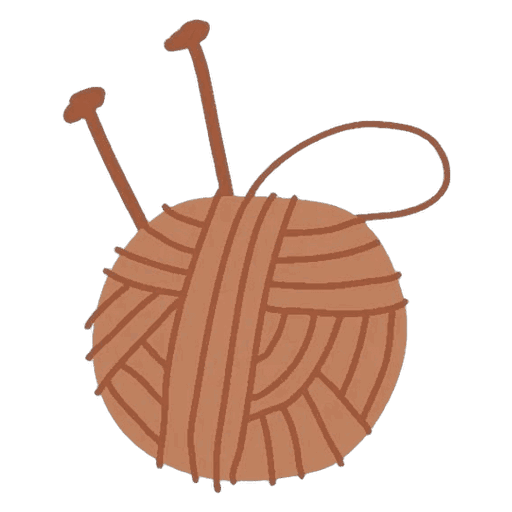
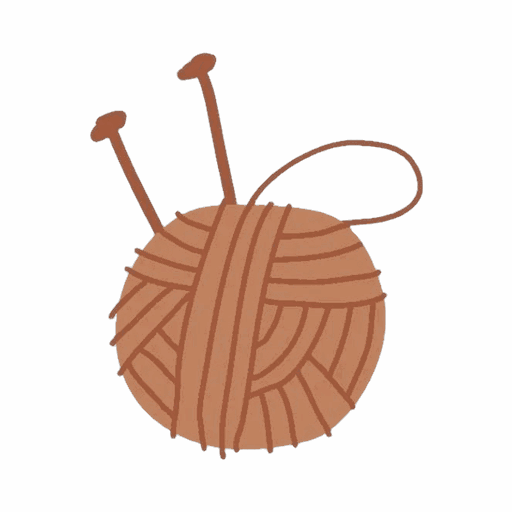
Agrega botón de volver arriba, pantalla de bienvenida de la PWA y corrige el ícono
- Botón "volver arriba": aparece al bajar, un anillo se llena de
  caramelo según el progreso de scroll y al llegar al final se pone
  negro sólido (igual que los botones del sitio). Visible en escritorio,
  tablet y celular.
- Ícono de la app: el de "cualquier propósito" (usado por iOS para
  el ícono de inicio) tenía transparencia, y iOS la rellena de negro
  por un bug conocido de Safari. Ahora tiene fondo blanco opaco, se ve
  limpio sin esa caja negra.
- Pantalla de bienvenida al abrir la PWA instalada: fondo blanco, logo
  más grande con una animación sutil y un mensaje. Solo aparece en modo
  standalone (instalada), no afecta la navegación normal en el navegador.

Changed region(s): [[0.125, 0.0312, 0.9062, 0.9688]]

diff --git a/index.html b/index.html
@@ -344,6 +344,31 @@ dialog::backdrop{background:rgba(20,12,8,.5);backdrop-filter:blur(6px);-webkit-b
 .pwa-acciones{grid-area:acciones;display:flex;align-items:center;justify-content:flex-end;gap:6px}
 .pwa-aviso .icono{width:34px;height:34px}
 
+/* Volver arriba, se llena a medida que se baja en la página */
+.arriba{position:fixed;right:calc(env(safe-area-inset-right,0px) + 20px);bottom:calc(env(safe-area-inset-bottom,0px) + 24px);z-index:70;width:52px;height:52px;padding:0;border:0;border-radius:50%;background:var(--bg);cursor:pointer;display:grid;place-items:center;box-shadow:0 10px 28px rgba(20,12,8,.16);opacity:0;transform:translateY(16px) scale(.9);pointer-events:none;transition:opacity .35s var(--ease),transform .35s var(--ease),background .4s var(--ease),box-shadow .4s var(--ease)}
+.arriba.visible{opacity:1;transform:translateY(0) scale(1);pointer-events:auto}
+.arriba svg:first-child{position:absolute;inset:0;width:100%;height:100%;transform:rotate(-90deg)}
+.arriba-pista{fill:none;stroke:var(--line);stroke-width:3}
+.arriba-progreso{fill:none;stroke:var(--accent);stroke-width:3;stroke-linecap:round;transition:stroke-dashoffset .1s linear,stroke .4s var(--ease)}
+.arriba-flecha{position:relative;width:18px;height:18px;color:var(--ink);transition:color .4s var(--ease)}
+.arriba.lleno{background:#000;box-shadow:0 14px 32px rgba(0,0,0,.3)}
+.arriba.lleno .arriba-pista{stroke:rgba(193,130,95,.3)}
+.arriba.lleno .arriba-progreso{stroke:#C1825F}
+.arriba.lleno .arriba-flecha{color:#C1825F}
+@media (max-width:640px){.arriba{width:46px;height:46px;right:calc(env(safe-area-inset-right,0px) + 16px);bottom:calc(env(safe-area-inset-bottom,0px) + 18px)}.arriba-flecha{width:16px;height:16px}}
+
+/* Pantalla de inicio al abrir la app instalada (PWA) */
+#splash{display:none}
+@media (display-mode:standalone){
+  #splash{display:flex;position:fixed;inset:0;z-index:9999;background:#FFFFFF;flex-direction:column;align-items:center;justify-content:center;gap:18px;padding:24px;text-align:center;transition:opacity .6s var(--ease);padding-top:calc(env(safe-area-inset-top,0px) + 24px)}
+  #splash.oculto{opacity:0;pointer-events:none}
+  .splash-logo{width:clamp(104px,28vw,168px);height:auto;animation:respira 2.6s ease-in-out infinite}
+  .splash-marca{font-family:var(--display);font-weight:300;font-size:clamp(1.7rem,6vw,2.4rem);letter-spacing:.3em;color:#7A4430;margin:0}
+  .splash-copy{font-family:var(--script);font-size:clamp(1.2rem,4.4vw,1.6rem);color:#A15A3C;margin:0;max-width:24ch}
+  @media (prefers-reduced-motion: reduce){.splash-logo{animation:none}}
+}
+@keyframes respira{0%,100%{transform:scale(1)}50%{transform:scale(1.06)}}
+
 /* Entrada de la portada */
 .intro .linea>span{animation:alzar 1.1s var(--ease) both;animation-delay:calc(.12s * var(--d,0) + .15s)}
 .intro .aparece{animation:fundir 1.2s var(--ease) both;animation-delay:calc(.12s * var(--d,0) + .2s)}
@@ -361,6 +386,11 @@ dialog::backdrop{background:rgba(20,12,8,.5);backdrop-filter:blur(6px);-webkit-b
 </style>
 </head>
 <body>
+<div id="splash" aria-hidden="true">
+  <img src="assets/logo-icono.png" class="splash-logo" alt="">
+  <p class="splash-marca">HILOS</p>
+  <p class="splash-copy">Un momento, estamos tejiendo esto para ti</p>
+</div>
 <svg width="0" height="0" style="position:absolute" aria-hidden="true" focusable="false">
   <defs>
     <pattern id="pt" width="10" height="9" patternUnits="userSpaceOnUse">
@@ -595,6 +625,14 @@ dialog::backdrop{background:rgba(20,12,8,.5);backdrop-filter:blur(6px);-webkit-b
   </div>
 </div>
 
+<button class="arriba" id="ir-arriba" aria-label="Volver arriba">
+  <svg viewBox="0 0 56 56" aria-hidden="true">
+    <circle class="arriba-pista" cx="28" cy="28" r="24"/>
+    <circle class="arriba-progreso" id="arriba-progreso" cx="28" cy="28" r="24"/>
+  </svg>
+  <svg class="arriba-flecha" viewBox="0 0 24 24" fill="none" stroke="currentColor" stroke-width="1.8" aria-hidden="true"><path d="M12 19V5M5 12l7-7 7 7"/></svg>
+</button>
+
 <script src="https://cdnjs.cloudflare.com/ajax/libs/three.js/r128/three.min.js"></script>
 <script>
 (function(){
@@ -605,6 +643,16 @@ const finoPuntero=matchMedia('(pointer: fine)').matches;
 const $=s=>document.querySelector(s), $$=s=>[...document.querySelectorAll(s)];
 const cop=n=>new Intl.NumberFormat('es-CO',{style:'currency',currency:'COP',maximumFractionDigits:0}).format(n);
 const wa=t=>`https://wa.me/${WHATSAPP}?text=${encodeURIComponent(t)}`;
+
+/* Pantalla de inicio al abrir como app instalada */
+if(matchMedia('(display-mode: standalone)').matches){
+  const splash=$('#splash');
+  const listo=new Promise(res=>{ if(document.readyState==='complete') res(); else addEventListener('load',res,{once:true}); });
+  Promise.all([listo,new Promise(res=>setTimeout(res,reduce?0:900))]).then(()=>{
+    splash.classList.add('oculto');
+    setTimeout(()=>splash.remove(),reduce?0:650);
+  });
+}
 
 /* ---------- Datos (contenido de ejemplo, editable) ---------- */
 const HILOS=[{n:'Tierra',c:'#A15A3C'},{n:'Caramelo',c:'#C1825F'},{n:'Arena',c:'#D9B99B'},{n:'Crudo',c:'#EDE2D6'},{n:'Café',c:'#5A3325'},{n:'Salvia',c:'#8E9677'}];
@@ -1228,6 +1276,28 @@ function crearOvillo(){
   if(/iphone|ipad|ipod/i.test(navigator.userAgent)){
     mostrar('Agrega <strong>Hilos</strong> a tu pantalla de inicio: toca compartir <span aria-hidden="true">⬆</span> y luego «Agregar a inicio».',false);
   }
+})();
+
+/* ---------- Volver arriba ---------- */
+(function(){
+  const btn=$('#ir-arriba'), progreso=$('#arriba-progreso'); if(!btn||!progreso) return;
+  const CIRC=2*Math.PI*24;
+  progreso.style.strokeDasharray=CIRC;
+  progreso.style.strokeDashoffset=CIRC;
+  let ticking=false;
+  function actualizar(){
+    const st=document.documentElement.scrollTop||document.body.scrollTop;
+    const alto=document.documentElement.scrollHeight-document.documentElement.clientHeight;
+    const p=alto>0?Math.min(1,Math.max(0,st/alto)):0;
+    progreso.style.strokeDashoffset=CIRC*(1-p);
+    btn.classList.toggle('visible',st>innerHeight*.6);
+    btn.classList.toggle('lleno',p>=.98);
+    ticking=false;
+  }
+  addEventListener('scroll',()=>{ if(!ticking){ ticking=true; requestAnimationFrame(actualizar); } },{passive:true});
+  addEventListener('resize',actualizar);
+  actualizar();
+  btn.addEventListener('click',()=>scrollTo({top:0,behavior:reduce?'auto':'smooth'}));
 })();
 })();
 
